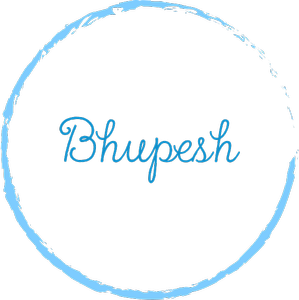
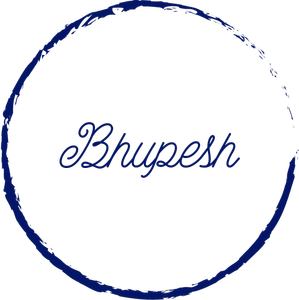
adjusted the positioning of elements and changed theme color

diff --git a/index.html b/index.html
@@ -18,12 +18,13 @@
 </head>
 <body>
     <div class="hero">
-        <img id="navLogo" src="./src/bhu.png">
+        
             <div class="uk-section-primary ">
                  <nav class="uk-navbar-container uk-navbar-transparent" uk-navbar>
                     <div class="uk-navbar-left">
+                        <img id="navLogo" src="./src/bhu.png">
                         <ul class="uk-navbar-nav">
-                            <li class="uk-active"><a href="#">My Activities</a></li>
+                            <li class="uk-active activeOption"><a href="#">My Activities</a></li>
                         </ul>
                     </div>
                      <div class="uk-navbar-right">

diff --git a/css/main.css b/css/main.css
@@ -1,11 +1,24 @@
+@import url('https://fonts.googleapis.com/css2?family=Barlow+Condensed&display=swap');
+
+*{
+    font-family: 'Barlow Condensed', sans-serif !important; 
+    font-size: medium !important;   
+}
+
 #navLogo{
     height: 10em;
     width: 10em;
-    background-color: aqua;
-    padding: 0.5em;
+    background-color: #fff;
+    padding: 0.1em;
     border-radius: 50%;
     border-color: blue;
     margin-left: 0.5em;
+    position: absolute;
+    top:1em;
+    z-index: 1;
+}
+
+.activeOption{
     position: relative;
-    z-index: 2;
+    left: 10em;
 }

diff --git a/css/customtheme.css b/css/customtheme.css
@@ -1,5 +1,5 @@
 body .uk-section-primary {
-    background: #0832A9 !important;
+    background: rgb(3, 21, 102) !important;
 }
 
 body uk-navbar-right{
